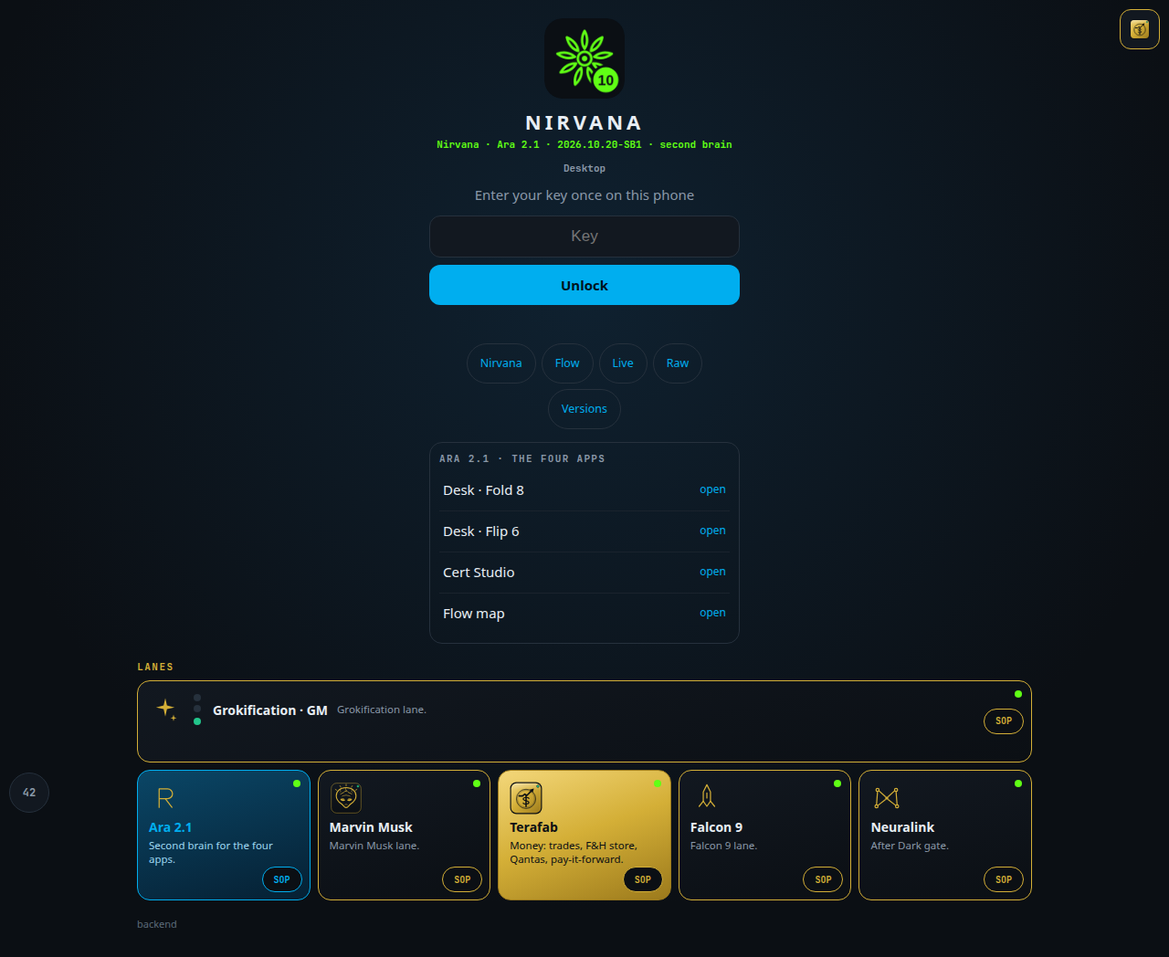
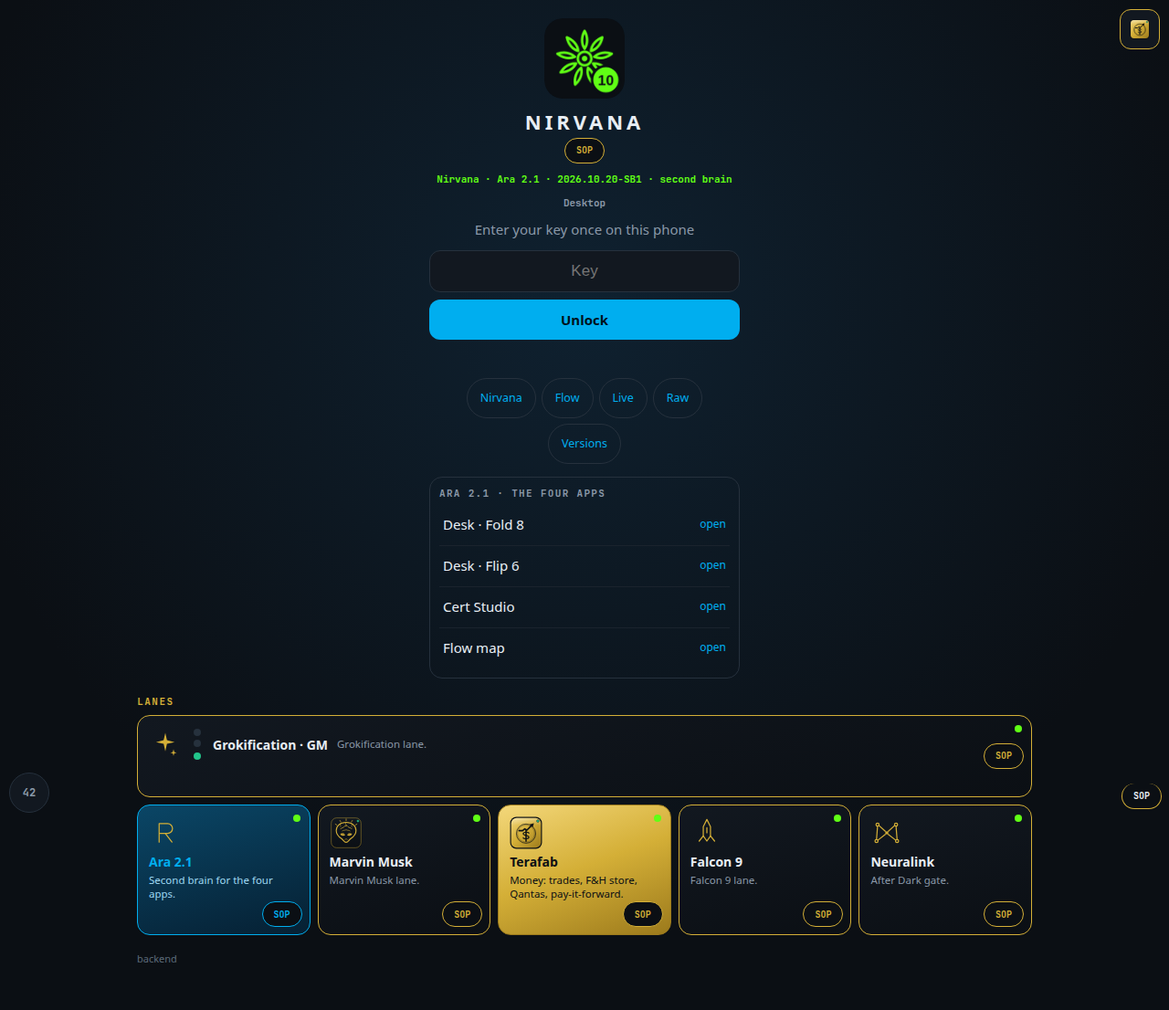
Use the Marvin mark and one printable SOP card.
Every lane chip and Nirvana page header opens sop.html. The card is the same template, with a print button and print CSS.

diff --git a/nirvana/index.html b/nirvana/index.html
@@ -24,7 +24,7 @@ input{width:100%;box-sizing:border-box;padding:12px;border-radius:12px;border:1p
 button{font:inherit;color:inherit}
 #b{box-sizing:border-box;min-height:44px;min-width:44px;width:100%;border:0;border-radius:12px;padding:11px 16px;background:#00aeef;color:#00121c;font:700 15px system-ui;cursor:pointer}
 .err{color:#ff5a5a;min-height:20px;font-size:13px;margin-top:8px}
-.ln{display:flex;gap:6px;justify-content:center;flex-wrap:wrap;margin-top:14px}.ln a{color:#00aeef;font-size:12.5px;text-decoration:none;border:1px solid #26313d;border-radius:99px;padding:3px 14px;min-height:44px;min-width:44px;box-sizing:border-box;display:inline-flex;align-items:center}.ap4{margin-top:14px;text-align:left;border:1px solid #26313d;border-radius:14px;padding:10px}.ap4 b{display:block;font:700 11px ui-monospace,Menlo,monospace;color:#8a98a8;letter-spacing:.12em;margin-bottom:6px}.ap4 a{display:flex;align-items:center;justify-content:space-between;min-height:44px;color:#e8eef4;text-decoration:none;border-top:1px solid #1a232d;padding:0 4px}.ap4 a:first-of-type{border-top:0}.ap4 a span{color:#00aeef;font-size:12px}
+.ln{display:flex;gap:6px;justify-content:center;flex-wrap:wrap;margin-top:14px}.ln a{color:#00aeef;font-size:12.5px;text-decoration:none;border:1px solid #26313d;border-radius:99px;padding:3px 14px;min-height:44px;min-width:44px;box-sizing:border-box;display:inline-flex;align-items:center}.ap4{margin-top:14px;text-align:left;border:1px solid #26313d;border-radius:14px;padding:10px}.ap4 b{display:block;font:700 11px ui-monospace,Menlo,monospace;color:#8a98a8;letter-spacing:.12em;margin-bottom:6px}.ap4 a{display:flex;align-items:center;justify-content:space-between;min-height:44px;color:#e8eef4;text-decoration:none;border-top:1px solid #1a232d;padding:0 4px}.ap4 a:first-of-type{border-top:0}.ap4 a span{color:#00aeef;font-size:12px}.ap4 a.sopc{display:inline-flex;width:auto;min-height:28px;margin:6px 0;border-top:0;justify-content:center}
 .lanes{margin-top:18px;text-align:left}
 .lanes-k{display:block;font:700 11px ui-monospace,Menlo,monospace;color:#d4af37;letter-spacing:.14em;margin:0 0 8px}
 .lane-grid{display:grid;grid-template-columns:1fr 1fr;gap:8px}
@@ -42,7 +42,8 @@ button{font:inherit;color:inherit}
 .lane.tera{border-color:#9c7a1c;background:linear-gradient(160deg,#f3d77a,#d4af37 48%,#9c7a1c);color:#0b0f14}
 .lane.tera .nm,.lane.tera .role{color:#0b0f14}
 .lights{width:14px;height:40px;flex:none;display:block}
-.sopc{position:absolute;right:8px;bottom:8px;z-index:2;min-height:28px;min-width:44px;padding:4px 8px;border-radius:999px;border:1px solid #d4af37;background:#0b0f14;color:#d4af37;font:700 10px ui-monospace,Menlo,monospace;cursor:pointer}
+.sopc{position:absolute;right:8px;bottom:8px;z-index:2;box-sizing:border-box;min-height:28px;min-width:44px;padding:4px 8px;border-radius:999px;border:1px solid #d4af37;background:#0b0f14;color:#d4af37;font:700 10px ui-monospace,Menlo,monospace;cursor:pointer;text-decoration:none;display:inline-flex;align-items:center;justify-content:center}
+.pagechip{position:static;margin:0 auto 10px}
 .lane.ara .sopc{border-color:#00aeef;color:#00aeef}
 .lane.head .sopc{bottom:auto;top:50%;transform:translateY(-50%)}
 .gate h2{user-select:none;-webkit-user-select:none;touch-action:manipulation}
@@ -114,18 +115,18 @@ body.julie-on .tf{display:none}
 <div class="board" id="board"><div class="w"><div class="lk">
 <div class="gate">
 <img src="icons/icon-v10-192.png" width="88" height="88" alt="">
-<h2>NIRVANA</h2><div class="st">Nirvana · Ara 2.1 · 2026.10.20-SB1 · second brain</div><div class="st" style="color:#8a98a8" id="nvDev"></div>
+<h2>NIRVANA</h2><a class="sopc pagechip" href="sop.html?lane=grokification">SOP</a><div class="st">Nirvana · Ara 2.1 · 2026.10.20-SB1 · second brain</div><div class="st" style="color:#8a98a8" id="nvDev"></div>
 <p id="msg">Enter your key once on this phone</p>
 <form id="f" autocomplete="off"><input id="k" type="password" placeholder="Key" autocomplete="current-password" aria-label="Key"><button id="b" type="submit">Unlock</button></form>
 <div class="err" id="e"></div>
 <div class="ln"><a href="index.html">Nirvana</a><a href="flow.html">Flow</a><a href="live.html">Live</a><a href="raw.html">Raw</a><a href="versions.html">Versions</a></div>
-<div class="ap4"><b>ARA 2.1 · THE FOUR APPS</b><a href="../desk.html?d=fold8">Desk · Fold 8<span>open</span></a><a href="../desk-flip6.html?d=flip6">Desk · Flip 6<span>open</span></a><a href="../certstudio.html">Cert Studio<span>open</span></a><a href="../map.html">Flow map<span id="flowMapStatus">open</span></a></div>
+<div class="ap4"><b>ARA 2.1 · THE FOUR APPS</b><a href="../desk.html?d=fold8">Desk · Fold 8<span>open</span></a><a href="../desk-flip6.html?d=flip6">Desk · Flip 6<span>open</span></a><a class="sopc inline" href="sop.html?lane=desk">SOP</a><a href="../certstudio.html">Cert Studio<span>open</span></a><a href="../map.html">Flow map<span id="flowMapStatus">open</span></a></div>
 </div>
 <section class="lanes" aria-label="Lanes">
 <b class="lanes-k">LANES</b>
 <div class="lane head">
 <div class="go"><img src="../pwa/lanes/grokification.svg" width="36" height="36" alt=""><svg class="lights" viewBox="0 0 14 40" aria-label="Oversight"><circle cx="7" cy="6" r="4" fill="#26313d"/><circle cx="7" cy="18" r="4" fill="#26313d"/><circle cx="7" cy="32" r="4" fill="#22c58b"/></svg><span class="nm">Grokification · GM</span><i class="dot" aria-hidden="true"></i><span class="role">Grokification lane.</span></div>
-<button type="button" class="sopc" data-sop="grokification">SOP</button>
+<a class="sopc" href="sop.html?lane=grokification">SOP</a>
 </div>
 <div class="lane-grid" id="laneGrid"></div>
 </section>
@@ -134,7 +135,7 @@ body.julie-on .tf{display:none}
 
 <section id="after-dark" class="panel" aria-label="After Dark">
 <div class="wrap cardbox">
-<p><a class="back" href="#board">Board</a> <button type="button" class="sopc inline" data-sop="after-dark">SOP</button></p>
+<p><a class="back" href="#board">Board</a> <a class="sopc inline" href="sop.html?lane=after-dark">SOP</a></p>
 <img src="../pwa/lanes/neural-mesh.svg" width="72" height="72" alt="">
 <h1>AFTER DARK</h1>
 <p id="darkAsk">Set a PIN</p>
@@ -146,14 +147,14 @@ body.julie-on .tf{display:none}
 
 <section id="backend" class="panel" aria-label="Backend">
 <div class="wrap">
-<div class="bar"><div><h1>BACKEND</h1><p>2026.10.20-LANES</p></div> <a class="back" href="#board">Board</a> <button type="button" class="sopc inline" data-sop="backend">SOP</button></div>
+<div class="bar"><div><h1>BACKEND</h1><p>2026.10.20-LANES</p></div> <a class="back" href="#board">Board</a> <a class="sopc inline" href="sop.html?lane=backend">SOP</a></div>
 <p>Z Fold 8 side button opens Ara 2.1; owner Marvin; money prompts route to Terafab.</p>
 <table class="sheet">
 <thead><tr><th>Lane</th><th>Role</th><th>Status</th></tr></thead>
 <tbody>
 <tr><td><img src="../pwa/lanes/grokification.svg" width="22" height="22" alt="">Grokification</td><td>Grokification lane. Oversight light on.</td><td>draft</td></tr>
 <tr><td><img src="../pwa/lanes/ara.svg" width="22" height="22" alt="">Ara 2.1</td><td>Second brain for the four apps.</td><td>draft</td></tr>
-<tr><td><img src="../pwa/lanes/marvin_alien.svg" width="22" height="22" alt="">Marvin Musk</td><td>Marvin Musk lane.</td><td>draft</td></tr>
+<tr><td><img src="../pwa/lanes/marvin.svg" width="22" height="22" alt="">Marvin Musk</td><td>Marvin Musk lane.</td><td>draft</td></tr>
 <tr><td></td><td>Infra — task under Marvin/Bastion.</td><td>draft</td></tr>
 <tr><td><img src="../pwa/lanes/terafab.svg" width="22" height="22" alt="">Terafab</td><td>Money: trades, F&amp;H store, Qantas, pay-it-forward.</td><td>draft</td></tr>
 <tr><td><img src="../pwa/lanes/falcon9.svg" width="22" height="22" alt="">Falcon 9</td><td>Falcon 9 lane.</td><td>draft</td></tr>
@@ -165,7 +166,7 @@ body.julie-on .tf{display:none}
 
 <section id="eleven" class="panel" aria-label="11:11">
 <div class="wrap cardbox">
-<p><a class="back" href="#board">Board</a> <button type="button" class="sopc inline" data-sop="eleven">SOP</button></p>
+<p><a class="back" href="#board">Board</a> <a class="sopc inline" href="sop.html?lane=eleven">SOP</a></p>
 <img src="icons/icon-v10-192.png" width="72" height="72" alt="">
 <h1>11:11</h1>
 <p id="elevenAsk">Set a PIN</p>
@@ -177,7 +178,7 @@ body.julie-on .tf{display:none}
 
 <section id="julie" class="panel" aria-label="Julie">
 <div class="wrap">
-<div class="bar"><img src="../pwa/lanes/julie.svg" width="56" height="56" alt=""><h1>Julie</h1> <button type="button" class="back" id="julieBack">Board</button> <button type="button" class="sopc inline" data-sop="julie">SOP</button></div>
+<div class="bar"><img src="../pwa/lanes/julie.svg" width="56" height="56" alt=""><h1>Julie</h1> <button type="button" class="back" id="julieBack">Board</button> <a class="sopc inline" href="sop.html?lane=julie">SOP</a></div>
 <button type="button" class="jbtn">What's on today?</button>
 <button type="button" class="jbtn">Tick a job done</button>
 <button type="button" class="jbtn">Add a note</button>
@@ -190,7 +191,7 @@ body.julie-on .tf{display:none}
 <section id="terafab" class="panel" aria-label="Terafab">
 <div class="wrap">
 <div class="bar goldh"><img src="../pwa/lanes/terafab.svg" width="48" height="48" alt=""><div><h1>TERAFAB</h1><p>2026.10.20-LANES · SOP draft</p></div></div>
-<p><a class="back" href="#board">Board</a> <button type="button" class="sopc inline" data-sop="terafab">SOP</button></p>
+<p><a class="back" href="#board">Board</a> <a class="sopc inline" href="sop.html?lane=terafab-page">SOP</a></p>
 <section class="block"><h2>Trades</h2><p>The work this lane is tracking.</p><div class="draft">Status: draft</div></section>
 <section class="block"><h2>F&amp;H store</h2><p>Store lane, held as a draft.</p><div class="draft">Status: draft</div></section>
 <section class="block"><h2>Qantas</h2><p>Travel lane, held as a draft.</p><div class="draft">Status: draft</div></section>
@@ -198,22 +199,9 @@ body.julie-on .tf{display:none}
 </div>
 </section>
 
-<section id="sop" class="panel" aria-label="SOP">
-<div class="wrap">
-<p class="noprint"><a class="back" href="#board">Board</a> <button type="button" class="printb" id="sopPrint">Print</button> <button type="button" class="sopc inline" data-sop="sop">SOP</button></p>
-<article id="sopCard">
-<h1 id="sopName">SOP</h1>
-<h2>Does</h2><p id="sopDoes"></p>
-<h2>Helps</h2><p id="sopHelps"></p>
-<h2>80% goal</h2><p id="sopGoal"></p>
-<h2>Rules</h2><p id="sopRules"></p>
-</article>
-</div>
-</section>
-
 <section id="automations" class="panel" aria-label="Automations">
 <div class="wrap">
-<div class="bar"><div><h1>AUTOMATIONS</h1><p>Seeded list. Test is a dry run.</p></div> <a class="back" href="#board">Board</a> <button type="button" class="sopc inline" data-sop="automations">SOP</button></div>
+<div class="bar"><div><h1>AUTOMATIONS</h1><p>Seeded list. Test is a dry run.</p></div> <a class="back" href="#board">Board</a> <a class="sopc inline" href="sop.html?lane=automations">SOP</a></div>
 <div class="agrid" id="autoList"><p id="autoEmpty">Loading.</p></div>
 </div>
 </section>
@@ -247,9 +235,9 @@ var s=localStorage.getItem(NVK);if(s)open(s,true);
 (function(){
   var LANES=[
     {id:"ara",name:"Ara 2.1",cls:"ara",icon:"../pwa/lanes/ara.svg",role:"Second brain for the four apps.",bot:"0aca7e2c-756b-4a08-a1c7-d0751a5703bb"},
-    {id:"marvin",name:"Marvin Musk",icon:"../pwa/lanes/marvin_alien.svg",role:"Marvin Musk lane."},
+    {id:"marvin",name:"Marvin Musk",icon:"../pwa/lanes/marvin.svg",role:"Marvin Musk lane."},
     {id:"terafab",name:"Terafab",cls:"tera",icon:"../pwa/lanes/terafab.svg",role:"Money: trades, F&H store, Qantas, pay-it-forward."},
-    {id:"falcon",name:"Falcon 9",icon:"../pwa/lanes/falcon9.svg",role:"Falcon 9 lane."},
+    {id:"falcon",sop:"falcon9",name:"Falcon 9",icon:"../pwa/lanes/falcon9.svg",role:"Falcon 9 lane."},
     {id:"neuralink",name:"Neuralink",icon:"../pwa/lanes/neural-mesh.svg",role:"After Dark gate.",href:"#after-dark"}
   ];
   var grid=document.getElementById("laneGrid");
@@ -260,7 +248,7 @@ var s=localStorage.getItem(NVK);if(s)open(s,true);
     else if(lane.href)href=lane.href;
     var img='<img src="'+lane.icon+'" width="36" height="36" alt=""><span class="nm">'+lane.name+'</span><i class="dot" aria-hidden="true"></i><span class="role">'+lane.role+'</span>';
     var go=href?'<a class="go"'+(lane.bot?' id="araLane" rel="noopener"':'')+' href="'+href+'">'+img+'</a>':'<button type="button" class="go">'+img+'</button>';
-    return '<div class="lane'+(lane.cls?' '+lane.cls:'')+'">'+go+'<button type="button" class="sopc" data-sop="'+lane.id+'">SOP</button></div>';
+    return '<div class="lane'+(lane.cls?' '+lane.cls:'')+'">'+go+'<a class="sopc" href="sop.html?lane='+encodeURIComponent(lane.sop||lane.id)+'">SOP</a></div>';
   }).join("");
   var a=document.getElementById("araLane");
   if(a&&araId&&/Android/i.test(navigator.userAgent)){
@@ -277,7 +265,7 @@ var s=localStorage.getItem(NVK);if(s)open(s,true);
   }
 })();
 (function(){
-  var PANELS=["after-dark","backend","eleven","julie","terafab","sop","automations"];
+  var PANELS=["after-dark","backend","eleven","julie","terafab","automations"];
   var SOP=null;
   function hashBits(){
     var raw=(location.hash||"").replace(/^#/,"");
@@ -292,25 +280,9 @@ var s=localStorage.getItem(NVK);if(s)open(s,true);
     document.getElementById("board").hidden=!!name;
     PANELS.forEach(function(id){var el=document.getElementById(id);if(el)el.classList.toggle("on",id===name)});
     document.body.classList.toggle("julie-on",name==="julie");
-    var titles={"after-dark":"After Dark",backend:"Nirvana backend",eleven:"11:11",julie:"Julie",terafab:"Terafab",sop:"SOP",automations:"Automations"};
+    if(bits.name==="sop"){location.replace("sop.html"+(bits.q?"?"+bits.q:""));return}
+    var titles={"after-dark":"After Dark",backend:"Nirvana backend",eleven:"11:11",julie:"Julie",terafab:"Terafab",automations:"Automations"};
     document.title=name?(titles[name]||"Nirvana"):"Nirvana";
-    if(name==="sop")fillSop();
-  }
-  function laneId(){
-    var bits=hashBits();
-    var params=new URLSearchParams(bits.q);
-    return params.get("lane")||"sop";
-  }
-  function fillSop(){
-    var id=laneId();
-    var list=(SOP&&SOP.entries)||[];
-    var hit=null;
-    for(var i=0;i<list.length;i++)if(list[i].id===id)hit=list[i];
-    document.getElementById("sopName").textContent=hit?hit.name:"SOP";
-    document.getElementById("sopDoes").textContent=hit?hit.does:"";
-    document.getElementById("sopHelps").textContent=hit?hit.helps:"";
-    document.getElementById("sopGoal").textContent=hit?hit.goal:"";
-    document.getElementById("sopRules").textContent=hit?hit.rules:(SOP?"":"SOP file missing");
   }
   function renderAuto(){
     var host=document.getElementById("autoList");
@@ -322,8 +294,6 @@ var s=localStorage.getItem(NVK);if(s)open(s,true);
     }).join("");
   }
   document.addEventListener("click",function(ev){
-    var sop=ev.target.closest&&ev.target.closest(".sopc");
-    if(sop){ev.preventDefault();ev.stopPropagation();location.hash="sop?lane="+encodeURIComponent(sop.getAttribute("data-sop")||"sop");return}
     var dry=ev.target.closest&&ev.target.closest("[data-dry]");
     if(dry){
       var card=dry.closest(".acard");
@@ -341,7 +311,6 @@ var s=localStorage.getItem(NVK);if(s)open(s,true);
     var kept=ev.target.querySelector(".kept");
     if(kept)kept.textContent="Not sent.";
   });
-  document.getElementById("sopPrint").addEventListener("click",function(){window.print()});
   function b64e(buf){var b=new Uint8Array(buf),s="";for(var i=0;i<b.length;i++)s+=String.fromCharCode(b[i]);return btoa(s)}
   async function sealLocal(secret){
     var salt=crypto.getRandomValues(new Uint8Array(16));
@@ -415,7 +384,7 @@ var s=localStorage.getItem(NVK);if(s)open(s,true);
   pad(document.getElementById("elevenPad"),document.getElementById("elevenDots"),document.getElementById("elevenOut"),document.getElementById("elevenAsk"),"eleven.enc.json","sealed","nv_gate_eleven_v1");
   window.addEventListener("hashchange",show);
   show();
-  fetch("sop.json",{cache:"no-store"}).then(function(r){if(!r.ok)throw new Error("sop");return r.json()}).then(function(d){SOP=d;renderAuto();if(hashBits().name==="sop")fillSop()}).catch(function(){var n=document.getElementById("autoEmpty");if(n)n.textContent="SOP file missing"});
+  fetch("sop.json",{cache:"no-store"}).then(function(r){if(!r.ok)throw new Error("sop");return r.json()}).then(function(d){SOP=d;renderAuto()}).catch(function(){var n=document.getElementById("autoEmpty");if(n)n.textContent="SOP file missing"});
 })();
 (function(){
   var errs=window.__nvErrs||(window.__nvErrs=[]);
@@ -443,6 +412,8 @@ var s=localStorage.getItem(NVK);if(s)open(s,true);
       var href2=as[k].getAttribute("href");if(href2.charAt(0)==="#")continue;var abs2=same(href2);if(!abs2||seen[abs2])continue;seen[abs2]=1;
       try{var r2=await fetch(abs2,{method:"HEAD",cache:"no-store"});if(!r2.ok)fails.push("link "+r2.status+" "+href2)}catch(e2){fails.push("link "+href2)}
     }
+    var sopOnly=same("sop.html");
+    if(sopOnly&&!seen[sopOnly]){seen[sopOnly]=1;try{var rSop=await fetch(sopOnly,{method:"HEAD",cache:"no-store"});if(!rSop.ok)fails.push("link "+rSop.status+" sop.html")}catch(eSop){fails.push("link sop.html")}}
     if(errs.length)fails=fails.concat(errs.map(function(x){return "console "+x}));
     var text=fails.length?fails.join(" · "):"The answer is 42 · PASS";
     var toast=document.getElementById("cueToast");

diff --git a/nirvana/sop.html b/nirvana/sop.html
@@ -1,0 +1,73 @@
+<!doctype html>
+<html lang="en"><head>
+<meta charset="utf-8">
+<meta name="viewport" content="width=device-width,initial-scale=1,viewport-fit=cover">
+<meta name="robots" content="noindex,nofollow"><meta name="referrer" content="no-referrer">
+<meta name="theme-color" content="#0b0f14">
+<meta http-equiv="Content-Security-Policy" content="default-src 'none'; img-src data: 'self'; style-src 'unsafe-inline'; script-src 'unsafe-inline'; connect-src 'self'; base-uri 'none'; form-action 'none'">
+<title>SOP</title>
+<link rel="icon" href="icons/icon-v10-192.png">
+<style>
+html,body{margin:0;background:#0b0f14;color:#14181d;font:16px/1.45 Georgia,"Iowan Old Style",Palatino,serif}
+body{min-height:100vh;box-sizing:border-box;padding:16px 14px 28px}
+.bar{display:flex;gap:8px;justify-content:space-between;align-items:center;max-width:210mm;margin:0 auto 12px;font-family:system-ui,sans-serif}
+.bar a,.bar button{min-height:44px;border-radius:999px;border:1px solid #d4af37;background:#121820;color:#d4af37;padding:8px 14px;text-decoration:none;font:700 13px system-ui,sans-serif;cursor:pointer}
+.card{max-width:210mm;margin:0 auto;background:#fff;color:#14181d;border:1px solid #d4af37;border-radius:18px;padding:22px 18px 26px;box-shadow:0 16px 40px rgba(0,0,0,.28)}
+.who{display:flex;align-items:center;gap:14px;margin:0 0 8px}
+.who img{width:72px;height:72px;border-radius:16px;display:block;background:#0b0f14;flex:none}
+h1{margin:0;font:700 28px/1.15 system-ui,sans-serif;letter-spacing:.02em}
+h2{margin:16px 0 6px;font:700 12px/1.2 ui-monospace,Menlo,monospace;letter-spacing:.14em;text-transform:uppercase;color:#9c7a1c}
+p{margin:0}
+ul{margin:0;padding-left:18px}
+li{margin:4px 0}
+body.pink .bar a,body.pink .bar button{border-color:#ff5fa2;color:#ff5fa2}
+body.pink .card{border-color:#ff5fa2}
+body.pink h2{color:#ff5fa2}
+@page{size:A4 portrait;margin:14mm}
+@media print{
+  html,body{background:#fff;padding:0}
+  .noprint{display:none!important}
+  .card{box-shadow:none;border-radius:0;max-width:none;min-height:auto}
+}
+</style></head>
+<body>
+<p class="bar noprint"><a id="back" href="index.html">Board</a><button type="button" id="print">Download / Print</button></p>
+<article class="card" id="card">
+<header class="who"><img id="icon" alt="" width="72" height="72"><h1 id="name">SOP</h1></header>
+<h2>What it does</h2><p id="does"></p>
+<h2>How it helps you</h2><p id="helps"></p>
+<h2>How it saves time</h2><ul id="saves"></ul>
+<h2>Rules it follows</h2><ul id="rules"></ul>
+</article>
+<script>
+(function(){
+  var q=new URLSearchParams(location.search);
+  var id=q.get("lane")||q.get("page")||"";
+  if(id==="julie"){
+    document.body.classList.add("pink");
+    document.getElementById("back").href="index.html#julie";
+  }
+  document.getElementById("print").addEventListener("click",function(){window.print()});
+  function list(el,rows){
+    el.innerHTML="";
+    (rows||[]).forEach(function(t){var li=document.createElement("li");li.textContent=t;el.appendChild(li)});
+  }
+  function show(hit){
+    document.getElementById("name").textContent=hit.name;
+    document.getElementById("does").textContent=hit.does;
+    document.getElementById("helps").textContent=hit.helps;
+    list(document.getElementById("saves"),hit.saves);
+    list(document.getElementById("rules"),hit.rules);
+    var img=document.getElementById("icon");
+    if(hit.icon)img.src=hit.icon;else img.hidden=true;
+    document.title=hit.name+" · SOP";
+  }
+  var blank={name:"SOP",does:"This card is not written yet.",helps:"The card shape is ready.",saves:["Goal: add this card.","Goal: keep the words plain.","Goal: leave secrets off it."],rules:["Nothing gets deleted.","Proof, not promises.","Nothing gets sent without Ange saying yes."],icon:"icons/icon-v10-192.png"};
+  fetch("sop.json",{cache:"no-store"}).then(function(r){if(!r.ok)throw new Error("sop");return r.json()}).then(function(d){
+    var hit=null;
+    (d.entries||[]).forEach(function(e){if(e.id===id)hit=e});
+    show(hit||blank);
+  }).catch(function(){show({name:"SOP",does:"The card file is missing.",helps:"Try again when the file is here.",saves:["Goal: load the card file.","Goal: keep the words plain.","Goal: leave secrets off it."],rules:["Nothing gets deleted.","Proof, not promises.","Nothing gets sent without Ange saying yes."]});});
+})();
+</script>
+</body></html>

diff --git a/nirvana/versions.html b/nirvana/versions.html
@@ -1,4 +1,4 @@
 <!doctype html><html lang="en"><head><meta charset="utf-8"><meta name="viewport" content="width=device-width,initial-scale=1"><meta name="robots" content="noindex,nofollow">
 <meta http-equiv="Content-Security-Policy" content="default-src 'none'; img-src 'self'; style-src 'unsafe-inline'"><title>Nirvana versions</title><link rel="icon" href="icons/icon-v10-192.png">
 <style>body{margin:0;padding:16px;background:#0b0f14;color:#e8eef4;font:15px/1.5 system-ui,sans-serif}h1{letter-spacing:.14em;font-size:18px}ul{list-style:none;padding:0}li{background:#121820;border:1px solid #26313d;border-radius:12px;padding:10px 12px;margin-bottom:8px}b{font-family:ui-monospace,Menlo,monospace;color:#60ff15}i{color:#00aeef;font-style:normal;font-size:12px;margin-left:6px}a{color:#00aeef;margin-right:12px}p{color:#8a98a8;font-size:13px}</style></head>
-<body><h1>NIRVANA · VERSIONS</h1><p>Every build is frozen at its own path. Data stays encrypted in each. Current: <a href="index.html">Nirvana</a><a href="flow.html">Flow</a><a href="live.html">Live</a><a href="raw.html">Raw</a></p><ul><li><b>v10.0 · 2026-10-19 · build 2</b> <i>current</i><br><a href="v/2026-10-19-v10.0-b2/index.html">Nirvana</a> <a href="v/2026-10-19-v10.0-b2/flow.html">Flow</a> <a href="v/2026-10-19-v10.0-b2/live.html">Live</a> <a href="v/2026-10-19-v10.0-b2/raw.html">Raw</a></li><li><b>v10.0 · 2026-10-19 · build 1</b><br><a href="v/2026-10-19-v10.0/index.html">Nirvana</a> <a href="v/2026-10-19-v10.0/flow.html">Flow</a> <a href="v/2026-10-19-v10.0/live.html">Live</a> <a href="v/2026-10-19-v10.0/raw.html">Raw</a></li></ul></body></html>
+<body><a href="sop.html?page=versions" style="position:fixed;z-index:80;top:10px;right:10px;box-sizing:border-box;min-height:28px;min-width:44px;padding:4px 10px;border-radius:999px;border:1px solid #d4af37;background:#0b0f14;color:#d4af37;font:700 10px ui-monospace,Menlo,monospace;text-decoration:none;display:inline-flex;align-items:center;justify-content:center">SOP</a><h1>NIRVANA · VERSIONS</h1><p>Every build is frozen at its own path. Data stays encrypted in each. Current: <a href="index.html">Nirvana</a><a href="flow.html">Flow</a><a href="live.html">Live</a><a href="raw.html">Raw</a></p><ul><li><b>v10.0 · 2026-10-19 · build 2</b> <i>current</i><br><a href="v/2026-10-19-v10.0-b2/index.html">Nirvana</a> <a href="v/2026-10-19-v10.0-b2/flow.html">Flow</a> <a href="v/2026-10-19-v10.0-b2/live.html">Live</a> <a href="v/2026-10-19-v10.0-b2/raw.html">Raw</a></li><li><b>v10.0 · 2026-10-19 · build 1</b><br><a href="v/2026-10-19-v10.0/index.html">Nirvana</a> <a href="v/2026-10-19-v10.0/flow.html">Flow</a> <a href="v/2026-10-19-v10.0/live.html">Live</a> <a href="v/2026-10-19-v10.0/raw.html">Raw</a></li></ul></body></html>

diff --git a/nirvana/raw.html b/nirvana/raw.html
@@ -22,7 +22,7 @@ pre{margin:0;padding:10px 12px 40px;font:12.5px/1.45 ui-monospace,SFMono-Regular
 .k{color:#7fd4ff}.s{color:#a5e88a}.n{color:#ffb020}.b{color:#ff8ac2}.z{color:#8a98a8}
 .meta{color:var(--mut);font-size:12px;padding:6px 12px 0}.meta a{color:#60ff15;text-decoration:none;font-family:ui-monospace,Menlo,monospace}
 </style></head>
-<body>
+<body><a href="sop.html?page=raw" style="position:fixed;z-index:80;top:calc(10px + env(safe-area-inset-top));right:calc(10px + env(safe-area-inset-right));box-sizing:border-box;min-height:28px;min-width:44px;padding:4px 10px;border-radius:999px;border:1px solid #d4af37;background:#0b0f14;color:#d4af37;font:700 10px ui-monospace,Menlo,monospace;text-decoration:none;display:inline-flex;align-items:center;justify-content:center">SOP</a>
 <div id="lock"><div class="lk"><img src="icons/icon-v10-192.png" alt=""><h2 style="letter-spacing:.18em;margin:0">RAW</h2><div class="st">v10.0 · 2026-10-19 · build 2</div>
 <p style="color:var(--mut)">Enter your key once on this phone</p>
 <form id="f" autocomplete="off"><input id="k" type="password" placeholder="Key" aria-label="Key" autocomplete="current-password"><button id="b">Unlock</button></form><div class="err" id="e"></div></div></div>

diff --git a/nirvana/flow.html b/nirvana/flow.html
@@ -24,7 +24,7 @@ button{width:100%;border:0;border-radius:12px;padding:11px 16px;background:#00ae
 .err{color:#ff5a5a;min-height:20px;font-size:13px;margin-top:8px}
 .ln{display:flex;gap:6px;justify-content:center;flex-wrap:wrap;margin-top:14px}.ln a{color:#00aeef;font-size:12.5px;text-decoration:none;border:1px solid #26313d;border-radius:99px;padding:3px 10px}
 </style></head>
-<body><div class="w"><div class="lk">
+<body><a href="sop.html?lane=flow" style="position:fixed;z-index:80;top:calc(10px + env(safe-area-inset-top));right:calc(10px + env(safe-area-inset-right));box-sizing:border-box;min-height:28px;min-width:44px;padding:4px 10px;border-radius:999px;border:1px solid #d4af37;background:#0b0f14;color:#d4af37;font:700 10px ui-monospace,Menlo,monospace;text-decoration:none;display:inline-flex;align-items:center;justify-content:center">SOP</a><div class="w"><div class="lk">
 <img src="icons/icon-v10-192.png" alt="">
 <h2>FLOW</h2><div class="st">v10.0 · 2026-10-19 · build 2</div>
 <p id="msg">Enter your key once on this phone</p>

diff --git a/nirvana/live.html b/nirvana/live.html
@@ -98,7 +98,7 @@ main{padding:4px 12px 40px;max-width:900px;margin:0 auto}
   <span class="sp"></span>
   <span class="pill" id="asof"><i></i><span>as of --:--</span></span>
   <button class="ib" id="rf" type="button" aria-label="Refresh" title="Refresh"><svg viewBox="0 0 24 24"><path d="M20 11a8 8 0 1 0-2.3 5.7"/><path d="M20 4v7h-7"/></svg></button>
-</header>
+<a href="sop.html?page=live" style="margin-left:8px;box-sizing:border-box;min-height:28px;min-width:44px;padding:4px 10px;border-radius:999px;border:1px solid #d4af37;background:#0b0f14;color:#d4af37;font:700 10px ui-monospace,Menlo,monospace;text-decoration:none;display:inline-flex;align-items:center;justify-content:center">SOP</a></header>
 <nav class="tabs" id="tabs"><button type="button" data-t="sch" class="on">Schedule</button><button type="button" data-t="st">Status stream</button><button type="button" data-t="hi">History</button></nav><nav class="days" id="days"></nav>
 <div id="ban"></div>
 <div class="cals" id="cals"></div>
